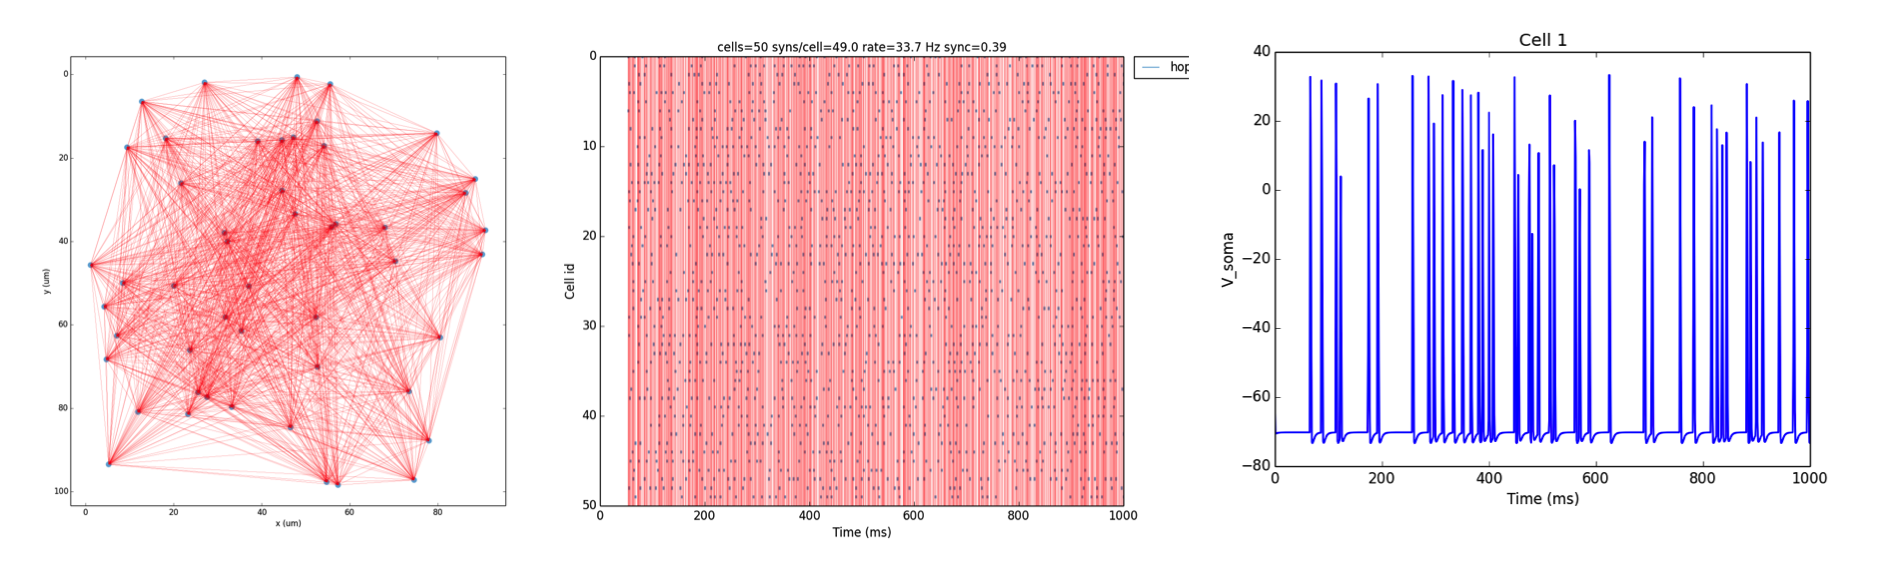
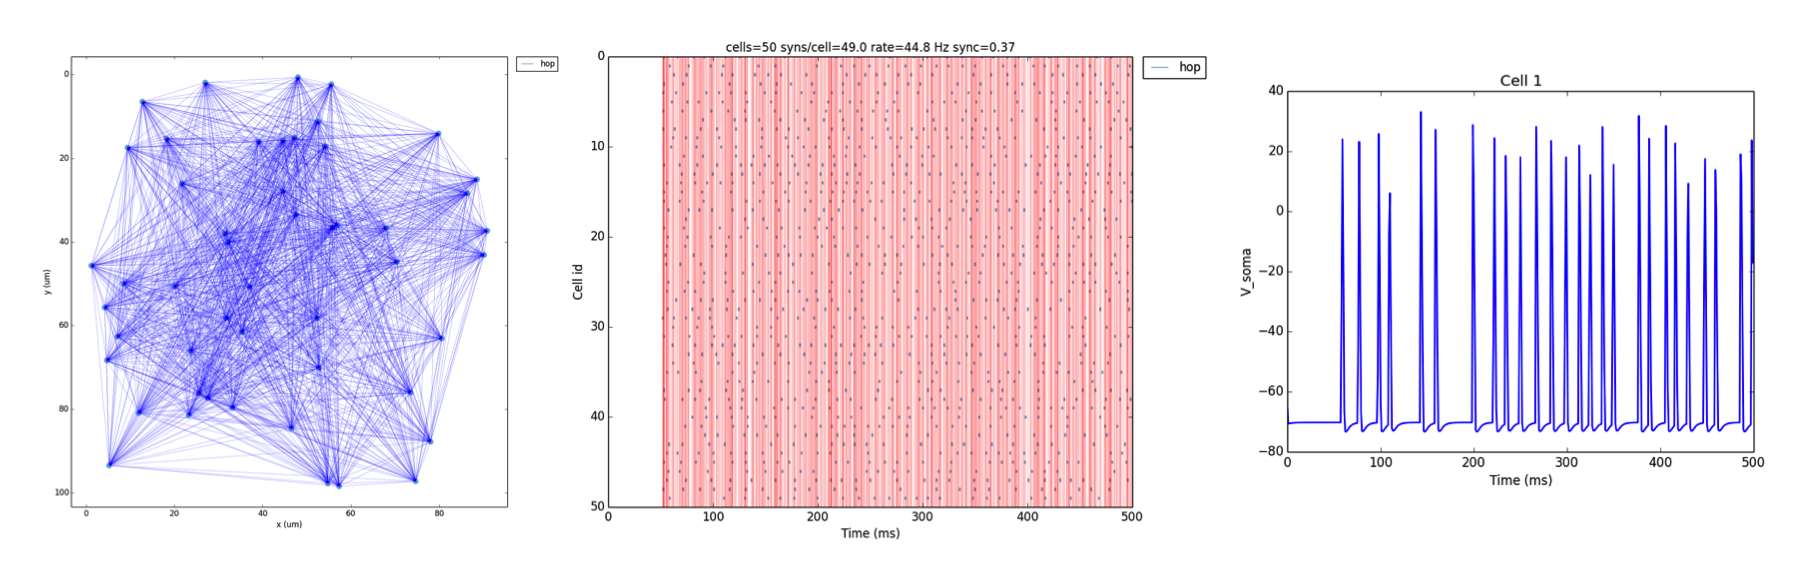
finishing tut6

diff --git a/doc/source/tutorial.rst b/doc/source/tutorial.rst
@@ -494,7 +494,7 @@ Modifying the instantiated network interactively
 
 This example is directed at the more experienced users who might want to interact directly with the NetPyNE generated structure containing the network model and NEURON objects. We will model a Hopfield-Brody network where cells are connected all-to-all and fires synchronize due to mutual inhibition (inhibition from other cells provides a reset, locking them together). The level of synchronization depends on the connection weights, which wel will modify interactively.
 
-We begin by creating a new file (``net6.py``) describing a simple network with one population (``hop``) of 50 cells and background input of 50 Hz (similar to the previous simple tutorial example ``tut2.py``). We create all-to-all connections within the ``hop`` population, but set the weights to 0 initially:: 
+We begin by creating a new file (``net6.py``) describing a simple network with one population (``hop``) of 50 cells and background input of 50 Hz (similar to the previous simple tutorial example ``tut2.py``). We create all-to-all inhibitory connections within the ``hop`` population, but set the weights to 0 initially:: 
 
 	###############################################################################
 	# NETWORK PARAMETERS
@@ -539,7 +539,7 @@ We begin by creating a new file (``net6.py``) describing a simple network with o
 	    'delay': 5})       				    # delay 
 
 
-We now add the standard simulation configuration options, and add the ``plotSync`` so that raster plots shown vertical lines at for each spike as an indication of synchrony::
+We now add the standard simulation configuration options, and include the ``plotSync`` so that raster plots shown vertical lines at for each spike as an indication of synchrony::
 
 	###############################################################################
 	# SIMULATION PARAMETERS
@@ -582,7 +582,7 @@ Finally, we add the code to create the network and run the simulation, but for i
 	f.analysis.plotData()                   # plot spike raster
 
 
-If we run the above code, the resulting network 2D map shows the inhibitory connections in blue, although these don't yet have any effect since the weight is 0. The raster plot shows random firing driven by the 50 Hz background inputs, and a low sync measure of 0.33 (vertical red lines illustrate poor synchrony)::
+If we run the above code, the resulting network 2D map shows the inhibitory connections in blue, although these don't yet have any effect since the weight is 0. The raster plot shows random firing driven by the 50 Hz background inputs, and a low sync measure of 0.37 (vertical red lines illustrate poor synchrony):
 
 .. image:: figs/tut6_1.png
 	:width: 100%
@@ -603,7 +603,7 @@ A representation of the instantiated network structure generated by NetPyNE is s
 	:align: center
 
 
-Given the information above, we can now create a simple function ``changeWeights`` that modifies the weights of all Netcons in the network. We can now call this function to set all weights to a negative vale (-0.03), and rerun the simulation interactively::
+Given the information above, we can now create a simple function ``changeWeights`` that modifies the weights of all Netcons in the network. We can now call this function to increase all th weights (eg. to 0.5) of the inhibitory connections, and rerun the simulation interactively::
 
 	###############################################################################
 	# INTERACTING WITH INSTANTIATED NETWORK
@@ -621,10 +621,9 @@ Given the information above, we can now create a simple function ``changeWeights
 	f.analysis.plotData()                   # plot spike raster
 
 
-The resulting plots show how by using the 
+The resulting plots show that the increased mutual inhibitions synchronizes the network activity, increasing the synchrony measure to 0.72:
 
-
-.. image:: figs/tut6_1.png
+.. image:: figs/tut6_2.png
 	:width: 100%
 	:align: center
 
